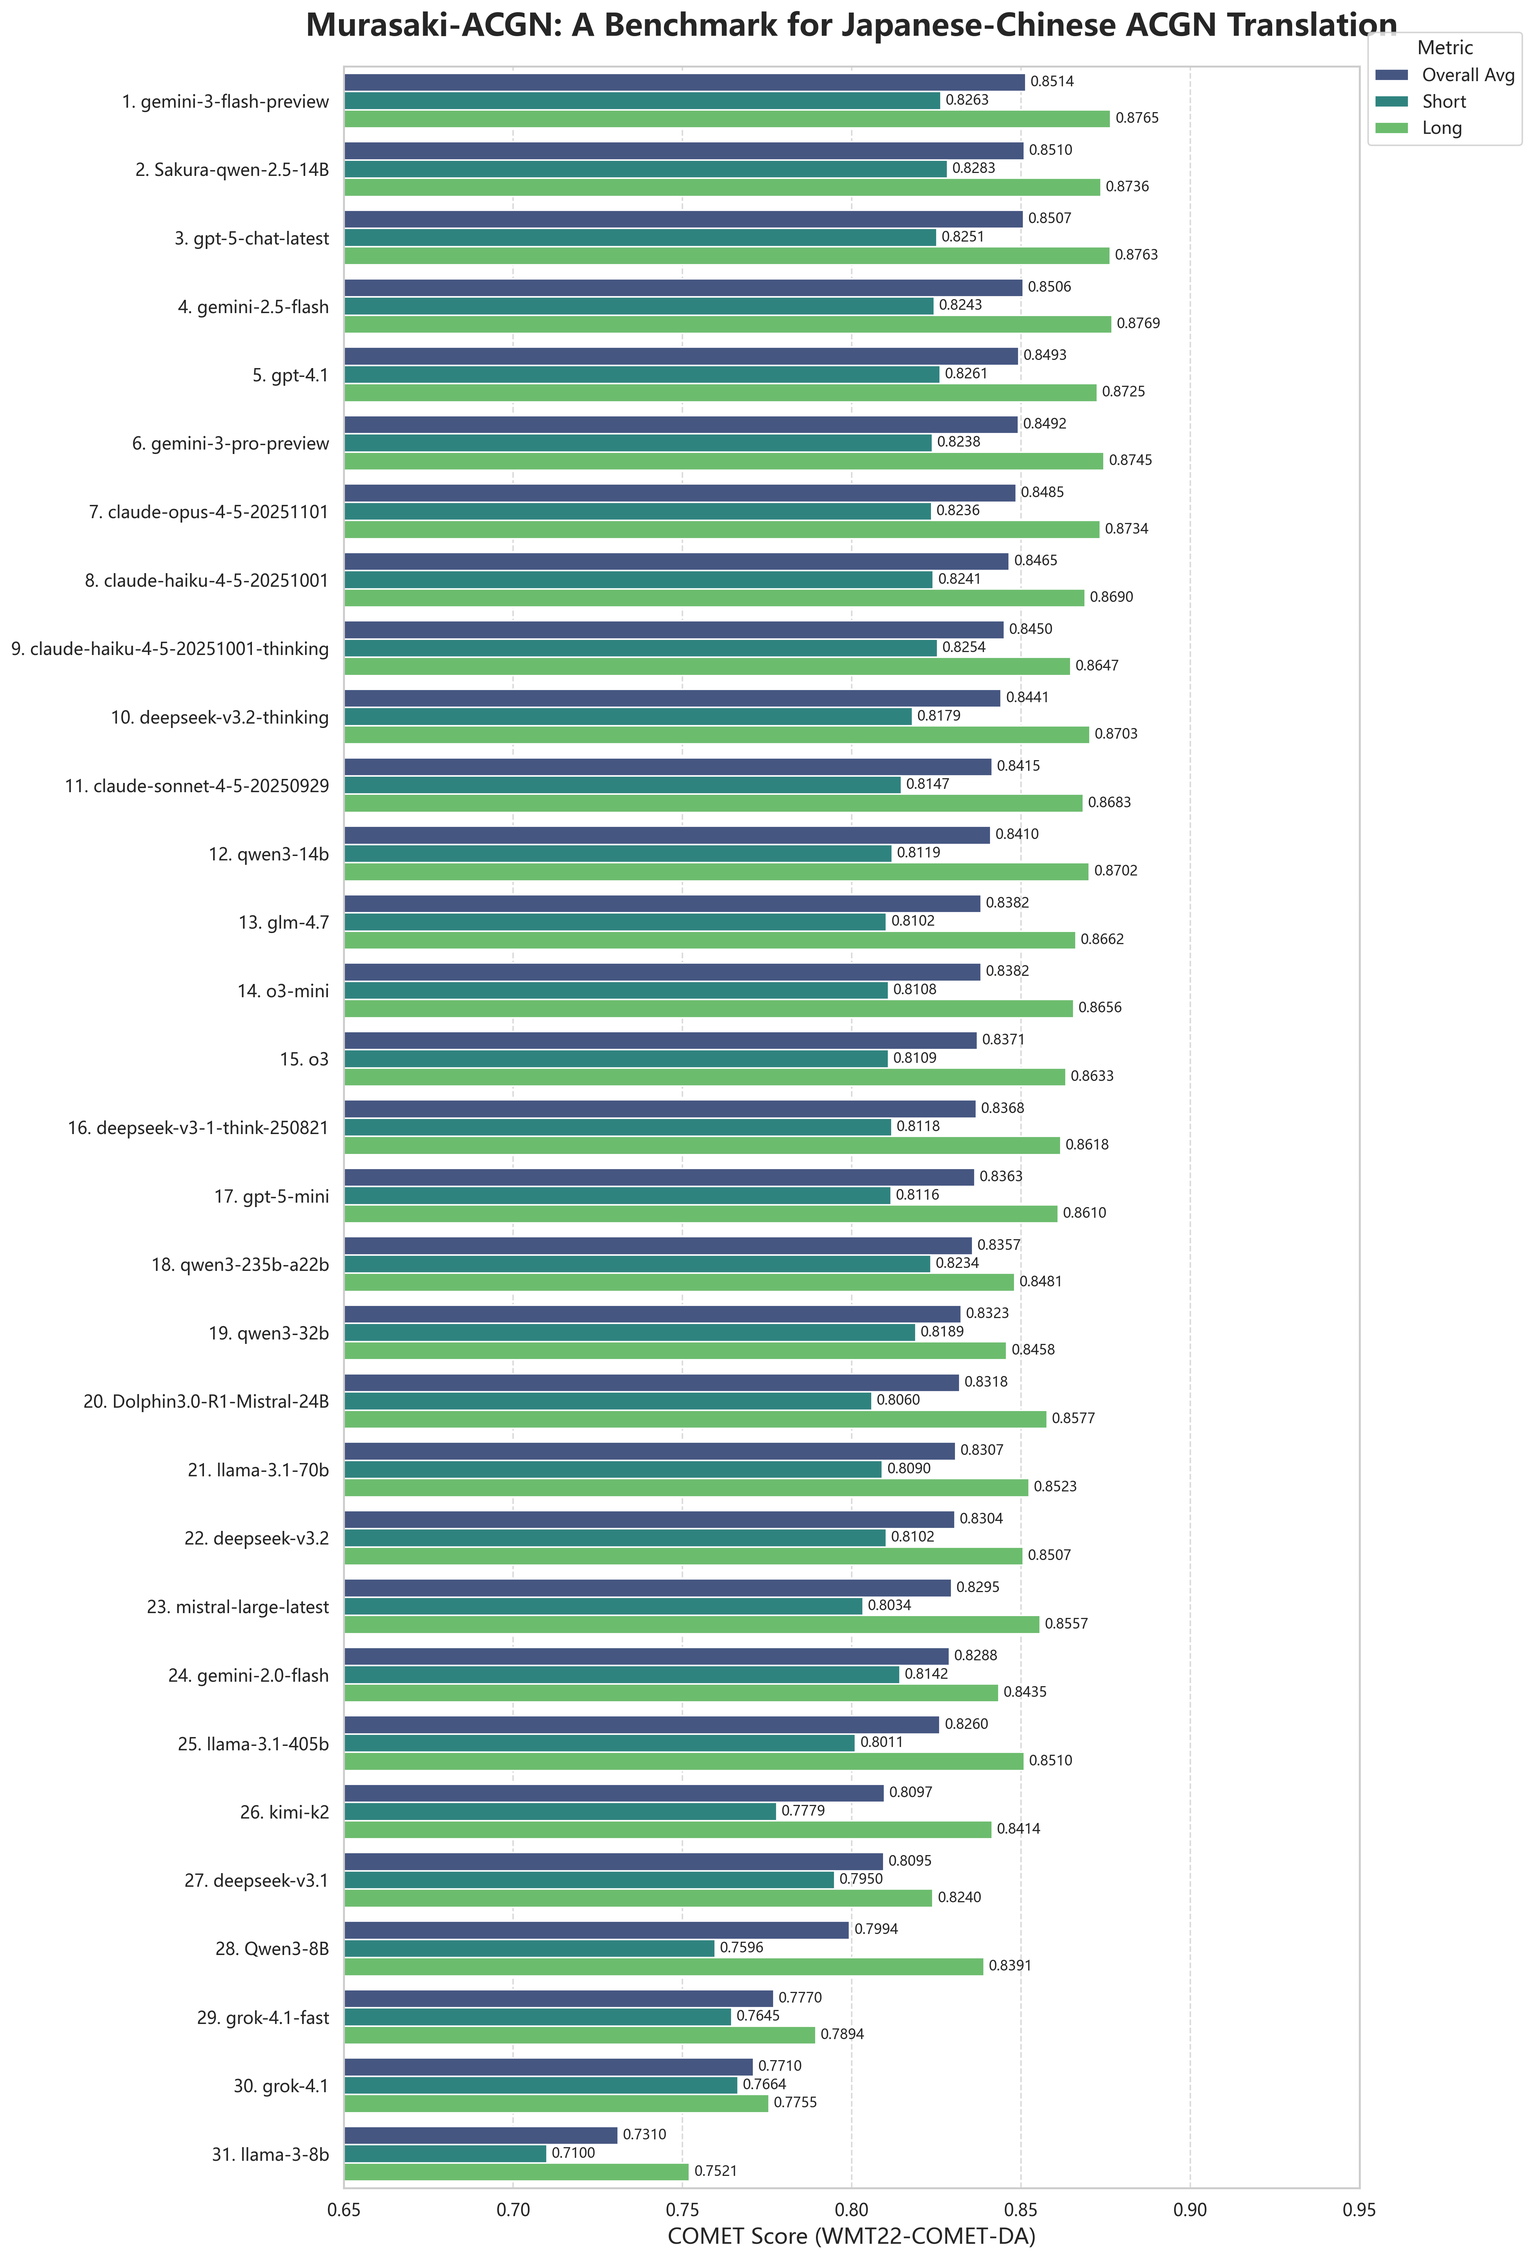
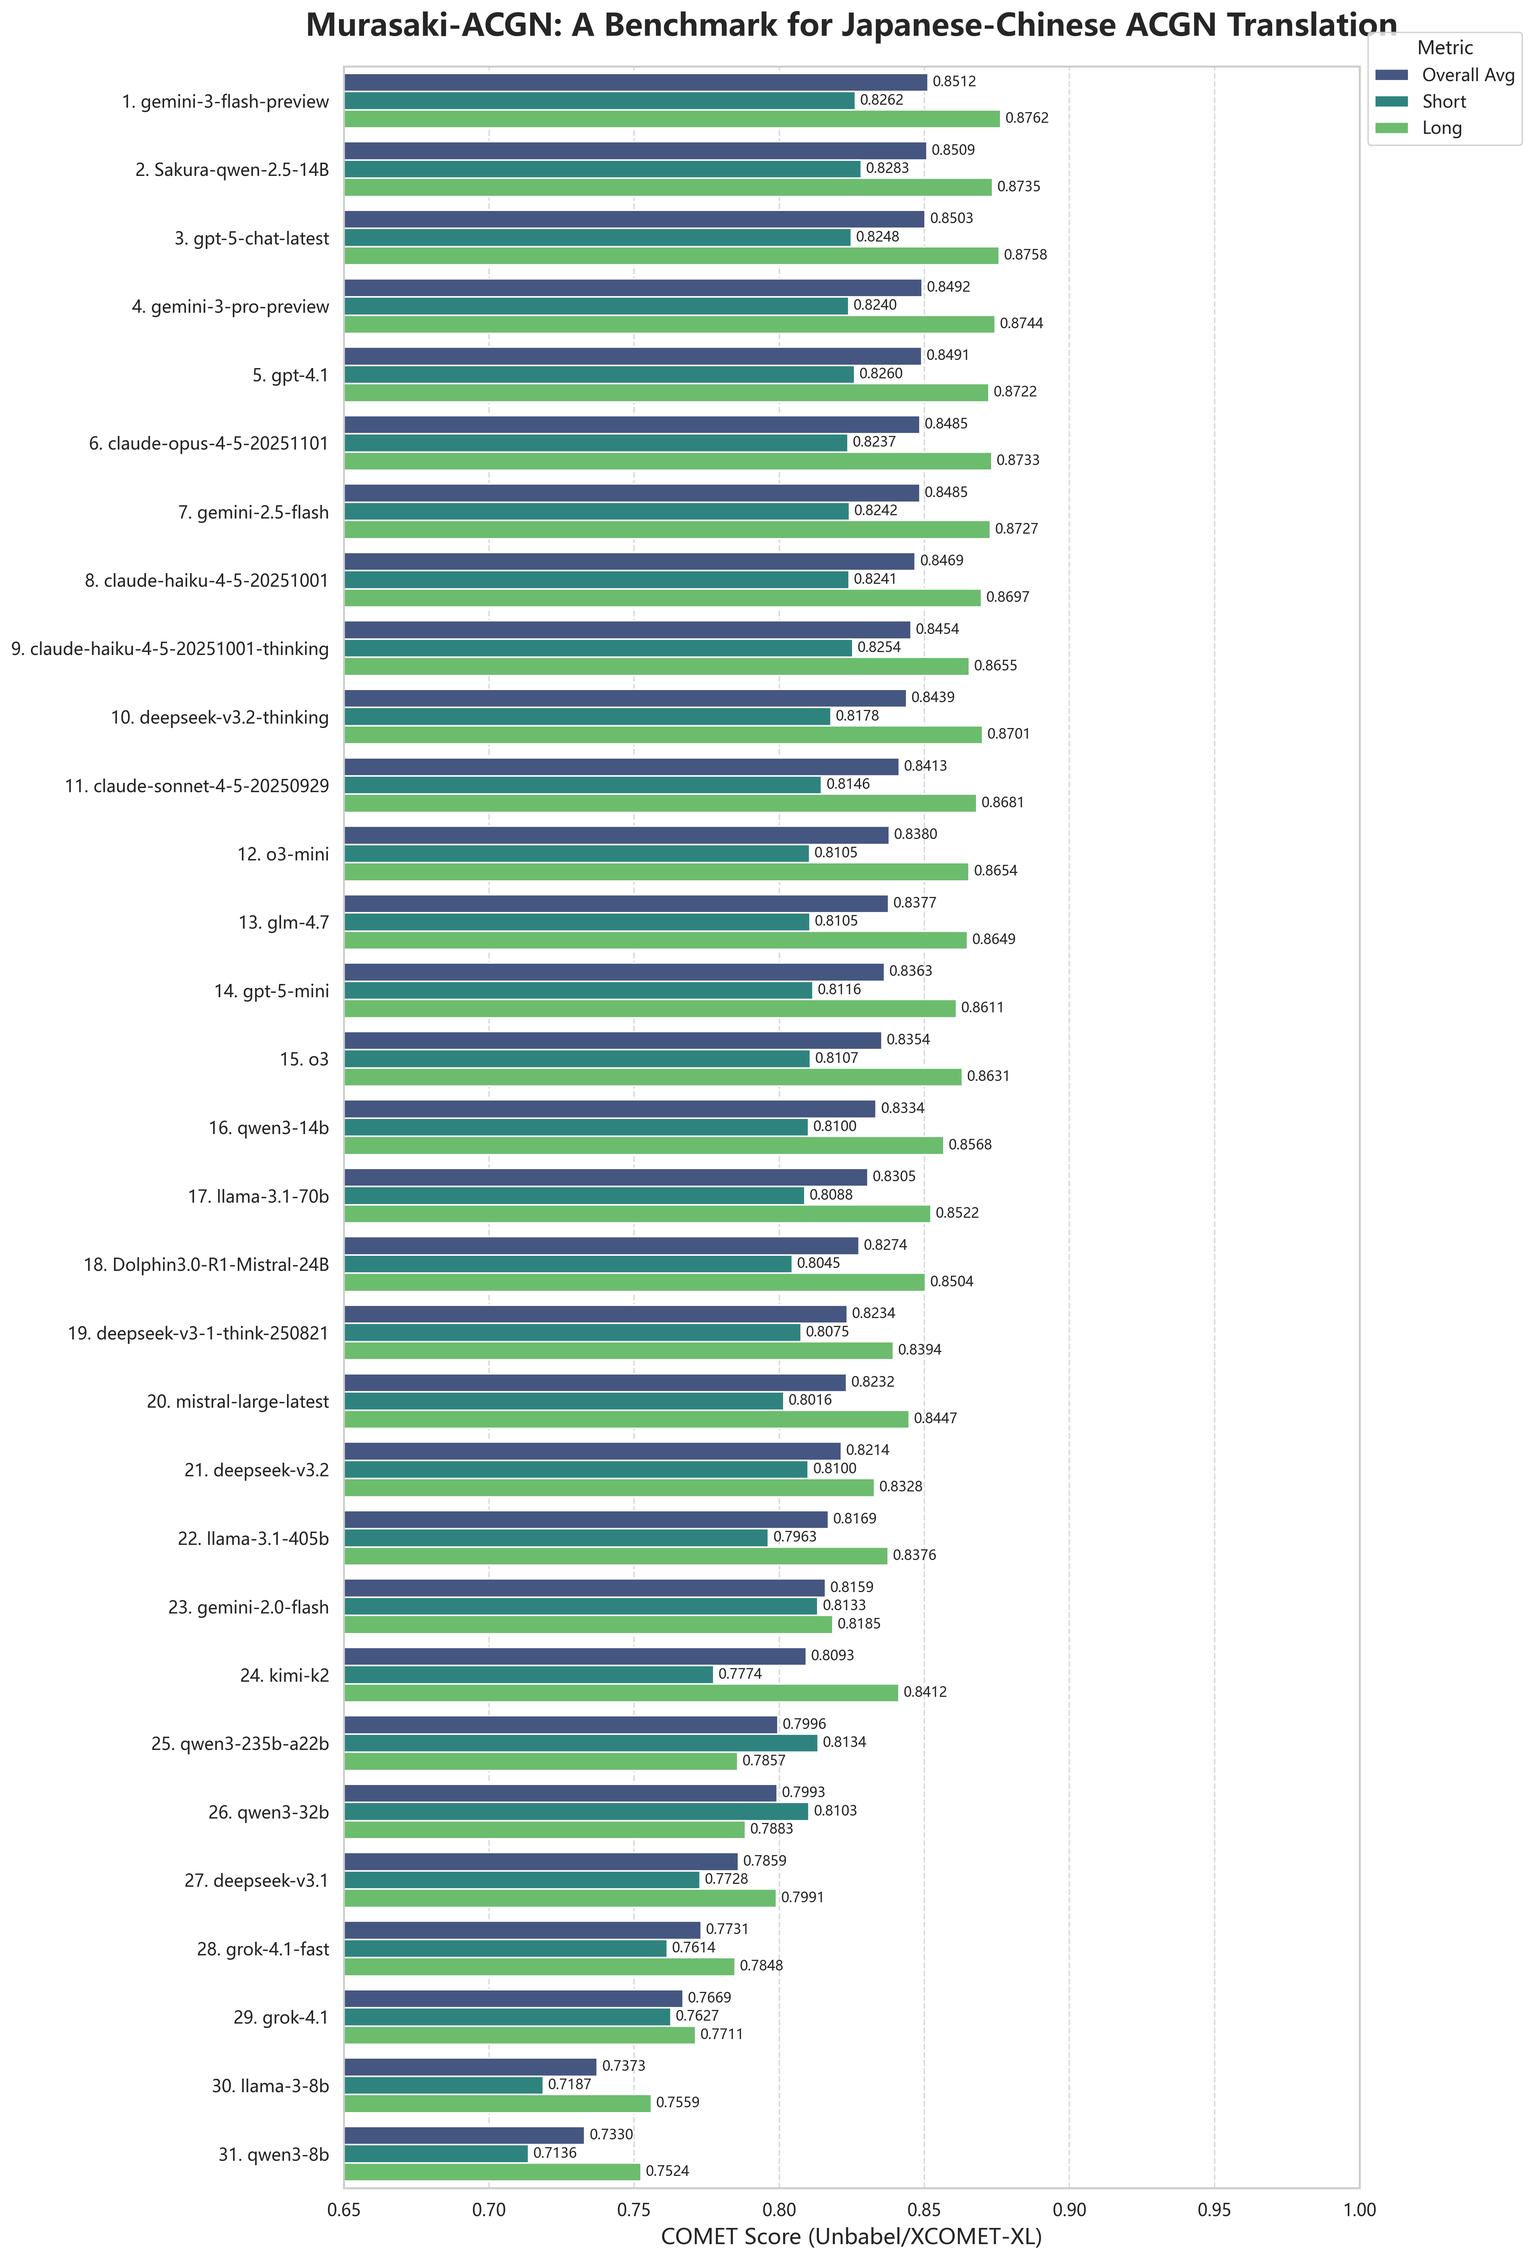
更换XCOMET-XL作为metrics

Changed region(s): [[0.3414, 0.0312, 0.7449, 0.9974], [0.1552, 0.5922, 0.2173, 0.6234], [0.1552, 0.4987, 0.1862, 0.561]]

diff --git a/pipeline/main.py b/pipeline/main.py
@@ -3,7 +3,7 @@ import os
 import pandas as pd
 import json
 
-# 使用相对导入（从pipeline目录运行）或绝对导入
+# Handle imports whether run as module or script
 try:
     from pipeline.config import MODELS_TO_EVAL, DATASET_SHORT, DATASET_LONG, SYSTEM_PROMPT, GLOBAL_API_KEY, GLOBAL_BASE_URL, GLOBAL_CONCURRENCY
     from pipeline.generator import LLMGenerator
@@ -16,8 +16,17 @@ except ImportError:
 
 def load_jsonl(path):
     """Load a JSONL file and return list of dicts."""
+    data = []
+    if not os.path.exists(path):
+        return data
     with open(path, 'r', encoding='utf-8') as f:
-        return [json.loads(line) for line in f if line.strip()]
+        for line in f:
+            if line.strip():
+                try:
+                    data.append(json.loads(line))
+                except json.JSONDecodeError:
+                    continue
+    return data
 
 
 async def main():
@@ -26,15 +35,21 @@ async def main():
     try:
         data_short = load_jsonl(DATASET_SHORT)
         data_long = load_jsonl(DATASET_LONG)
-        data = data_short + data_long
-        dataset = pd.DataFrame(data)
+        
+        # Ensure categories are set correctly
+        for item in data_short:
+            item['category'] = 'Short'
+        for item in data_long:
+            item['category'] = 'Long'
+            
+        df_short_source = pd.DataFrame(data_short)
+        df_long_source = pd.DataFrame(data_long)
+        
     except Exception as e:
-        print(f"Error loading dataset: {e}")
+        print(f"Error loading source datasets: {e}")
         return
 
-    print(f"Loaded {len(dataset)} examples (Short: {len(data_short)}, Long: {len(data_long)}).")
-    if 'category' in dataset.columns:
-        print(f"Categories found: {dataset['category'].unique()}")
+    print(f"Loaded source data: Short={len(df_short_source)}, Long={len(df_long_source)}")
     
     # Prepare results directory
     results_dir = "results/models"
@@ -60,47 +75,70 @@ async def main():
         model_results_dir = os.path.join(results_dir, safe_model_name)
         os.makedirs(model_results_dir, exist_ok=True)
         
-        result_file_path = os.path.join(model_results_dir, f"{safe_model_name}_run1.csv")
+        # Define result file paths
+        short_result_path = os.path.join(model_results_dir, "dataset_Short_run1.jsonl")
+        long_result_path = os.path.join(model_results_dir, "dataset_Long_run1.jsonl")
         
-        # Check for existing results
-        if os.path.exists(result_file_path):
-            print(f"Found existing results at {result_file_path}. Skipping generation.")
-            df_result = pd.read_csv(result_file_path)
+        generator = LLMGenerator(model_config)
+
+        # --- Process Short Dataset ---
+        print(f"  [Short] Processing...")
+        # Check if generation is needed/complete for Short
+        # The generator's generate_batch handles incremental saving and skipping existing
+        if len(df_short_source) > 0:
+            df_short_result = await generator.generate_batch(
+                df_short_source, 
+                SYSTEM_PROMPT, 
+                save_path=short_result_path
+            )
         else:
-            print(f"No existing results found. Generating...")
-            generator = LLMGenerator(model_config)
-            df_result = await generator.generate_batch(dataset, SYSTEM_PROMPT)
-            df_result.to_csv(result_file_path, index=False, encoding='utf-8-sig')
-            print(f"Generation complete. Saved to {result_file_path}")
+            df_short_result = pd.DataFrame()
+
+        # --- Process Long Dataset ---
+        print(f"  [Long] Processing...")
+        if len(df_long_source) > 0:
+            df_long_result = await generator.generate_batch(
+                df_long_source, 
+                SYSTEM_PROMPT, 
+                save_path=long_result_path
+            )
+        else:
+            df_long_result = pd.DataFrame()
+
+        # --- Combine for Evaluation ---
+        df_result = pd.concat([df_short_result, df_long_result], ignore_index=True)
+        
+        if len(df_result) == 0:
+            print("  No results to evaluate.")
+            continue
 
         # 3. Evaluate
-        print(f"Evaluating {model_name}...")
+        print(f"  Evaluating {len(df_result)} samples...")
         
-        if 'comet_score' not in df_result.columns:
-            eval_result = evaluate_metrics(df_result)
-            eval_result['results_df'].to_csv(result_file_path, index=False, encoding='utf-8-sig')
-        else:
-            eval_result = evaluate_metrics(df_result)
+        # Note: evaluate_metrics calculates scores but we don't save them back to row-level files
+        # based on user requirement (scores in summary only).
+        eval_result = evaluate_metrics(df_result)
 
         # Collect Scores
         run_scores = {
             "model_name": model_name,
-            "comet": eval_result['comet']
+            "comet": eval_result.get('comet', 0.0)
         }
         
         # Add Category Scores
         if 'category_scores' in eval_result and eval_result['category_scores']:
             for cat, metrics in eval_result['category_scores'].items():
-                run_scores[f"{cat}_comet"] = metrics['comet']
+                run_scores[f"{cat}_comet"] = metrics.get('comet', 0.0)
 
         leaderboard.append(run_scores)
-        print(f"Scores: COMET={run_scores['comet']:.4f}")
+        print(f"  Scores: COMET={run_scores['comet']:.4f}")
 
     # 4. Save Final Leaderboard
     leaderboard_df = pd.DataFrame(leaderboard)
-    leaderboard_df = leaderboard_df.sort_values(by='comet', ascending=False)
+    if not leaderboard_df.empty and 'comet' in leaderboard_df.columns:
+        leaderboard_df = leaderboard_df.sort_values(by='comet', ascending=False)
     
-    leaderboard_path = "results/leaderboard.csv"
+    leaderboard_path = "results/final_comet_scores.csv"
     leaderboard_df.to_csv(leaderboard_path, index=False, encoding='utf-8-sig')
     
     print("\n=== Final Leaderboard ===")

diff --git a/scripts/generate_chart.py b/scripts/generate_chart.py
@@ -1,0 +1,126 @@
+import pandas as pd
+import matplotlib.pyplot as plt
+import matplotlib.font_manager as fm
+import os
+import seaborn as sns
+
+# Configuration
+OUTPUT_IMAGE = "results/murasaki_benchmark_chart.png"
+TITLE = "Murasaki-ACGN: A Benchmark for Japanese-Chinese ACGN Translation"
+
+# Auto-detect input file
+INPUT_FILE = "results/final_comet_scores.csv"
+if os.path.exists("results/leaderboard_xcomet.csv"):
+    INPUT_FILE = "results/leaderboard_xcomet.csv"
+    print(f"Detected XCOMET evaluation results: {INPUT_FILE}")
+
+def setup_chinese_font():
+    """Attempt to set a Chinese font for Matplotlib on Windows."""
+    # Common Windows Chinese fonts
+    font_names = ["Microsoft YaHei", "SimHei", "Malgun Gothic", "SimSun"]
+    
+    # Try to find a valid font path
+    found_font = None
+    for name in font_names:
+        try:
+            # Check if font is available in system paths
+            font_path = fm.findfont(fm.FontProperties(family=name))
+            available = [f.name for f in fm.fontManager.ttflist]
+            if name in available:
+                found_font = name
+                break
+        except:
+            continue
+            
+    if found_font:
+        plt.rcParams['font.family'] = [found_font, 'sans-serif']
+        print(f"Using font: {found_font}")
+    else:
+        print("Warning: Common Chinese fonts not found in Matplotlib cache. Trying 'Microsoft YaHei' directly.")
+        plt.rcParams['font.family'] = ['Microsoft YaHei', 'SimHei', 'sans-serif']
+        plt.rcParams['axes.unicode_minus'] = False
+
+def main():
+    if not os.path.exists(INPUT_FILE):
+        print(f"Error: {INPUT_FILE} not found. Please run evaluation first.")
+        return
+
+    # 1. Load Data
+    try:
+        df = pd.read_csv(INPUT_FILE)
+    except Exception as e:
+        print(f"Error reading {INPUT_FILE}: {e}")
+        return
+    
+    # 2. Sort by Avg Score Descending
+    if "comet" in df.columns:
+        df = df.sort_values(by="comet", ascending=False).reset_index(drop=True)
+    
+    # Add Rank to Model Name for display
+    df["display_name"] = (df.index + 1).astype(str) + ". " + df["model_name"]
+
+    # 3. Setup Plot
+    setup_chinese_font()
+    sns.set_theme(style="whitegrid")
+    setup_chinese_font() # Re-apply after theme set
+
+    # Melt for plotting
+    # Columns expected: comet (avg), Short_comet, Long_comet
+    value_vars = ["comet"]
+    if "Short_comet" in df.columns: value_vars.append("Short_comet")
+    if "Long_comet" in df.columns: value_vars.append("Long_comet")
+    
+    df_melt = df.melt(id_vars=["display_name", "model_name"], 
+                      value_vars=value_vars, 
+                      var_name="Metric", 
+                      value_name="Score")
+    
+    metric_map = {
+        "comet": "Overall Avg",
+        "Short_comet": "Short",
+        "Long_comet": "Long"
+    }
+    df_melt["Metric"] = df_melt["Metric"].map(metric_map)
+
+    # Dynamic Height
+    height = len(df) * 0.6 + 2
+    plt.figure(figsize=(14, height))
+
+    # 4. Create Horizontal Bar Plot
+    chart = sns.barplot(
+        data=df_melt,
+        x="Score",
+        y="display_name",
+        hue="Metric",
+        hue_order=["Overall Avg", "Short", "Long"],
+        palette="viridis",
+        edgecolor="w" 
+    )
+    
+    # ADD VALUE LABELS
+    for container in chart.containers:
+        chart.bar_label(container, fmt='%.4f', padding=3, fontsize=9)
+
+    # 5. Styling
+    plt.title(TITLE, fontsize=20, fontweight='bold', pad=20)
+    plt.xlabel("COMET Score (Unbabel/XCOMET-XL)", fontsize=14)
+    plt.ylabel("", fontsize=12) 
+    plt.legend(title="Metric", bbox_to_anchor=(1.0, 1.02), loc='upper left', fontsize=11)
+    
+    # Adjust X Limits
+    # Find min score to set sensible x lim
+    min_score = df_melt["Score"].min()
+    if pd.isna(min_score): min_score = 0
+    xlim_min = int(min_score * 20) / 20 - 0.05
+    plt.xlim(max(0, xlim_min), 1.0) # Cap at 1.0 MAX
+    
+    plt.grid(axis='x', linestyle='--', alpha=0.7)
+    plt.tight_layout()
+
+    # 6. Save
+    os.makedirs(os.path.dirname(OUTPUT_IMAGE), exist_ok=True)
+    plt.savefig(OUTPUT_IMAGE, dpi=300, bbox_inches='tight')
+    print(f"Chart saved to {OUTPUT_IMAGE}")
+
+if __name__ == "__main__":
+    main()

diff --git a/pipeline/evaluator.py b/pipeline/evaluator.py
@@ -1,4 +1,6 @@
+import os
 from comet import download_model, load_from_checkpoint
+from huggingface_hub import hf_hub_download
 import torch
 import pandas as pd
 
@@ -14,14 +16,34 @@ def load_comet():
 
     print("Loading COMET model...")
     try:
-        COMET_MODEL_PATH = download_model("Unbabel/wmt22-comet-da")
+        # Try Loading XCOMET-XL
+        print("Attempting to load Unbabel/XCOMET-XL...")
+        try:
+             # First try direct download (if supported in future versions)
+            COMET_MODEL_PATH = download_model("Unbabel/XCOMET-XL")
+        except Exception:
+            # Fallback: Download from HuggingFace Hub manually
+            print("Direct download not supported, fetching from HuggingFace Hub...")
+            COMET_MODEL_PATH = hf_hub_download(repo_id="Unbabel/XCOMET-XL", filename="checkpoints/model.ckpt")
+        
         comet_model = load_from_checkpoint(COMET_MODEL_PATH)
-        if torch.cuda.is_available():
-            comet_model = comet_model.to("cuda")
-        print("COMET model loaded successfully.")
+        print(f"Loaded XCOMET-XL from {COMET_MODEL_PATH}")
+
     except Exception as e:
-        print(f"Failed to load COMET model: {e}")
-        comet_model = None
+        print(f"Failed to load XCOMET-XL: {e}")
+        print("Falling back to Unbabel/wmt22-comet-da...")
+        try:
+            COMET_MODEL_PATH = download_model("Unbabel/wmt22-comet-da")
+            comet_model = load_from_checkpoint(COMET_MODEL_PATH)
+            print("Loaded wmt22-comet-da successfully.")
+        except Exception as e2:
+             print(f"Failed to load fallback model: {e2}")
+             comet_model = None
+             return
+
+    if torch.cuda.is_available():
+        comet_model = comet_model.to("cuda")
+    print("COMET model loaded successfully.")
 
 
 def evaluate_metrics(df):

diff --git a/pipeline/__init__.py b/pipeline/__init__.py
@@ -4,12 +4,10 @@
 from .config import MODELS_TO_EVAL, SYSTEM_PROMPT
 from .generator import LLMGenerator
 from .evaluator import evaluate_metrics
-from .sampler import get_file_candidates
 
 __all__ = [
     'MODELS_TO_EVAL',
     'SYSTEM_PROMPT', 
     'LLMGenerator',
-    'evaluate_metrics',
-    'get_file_candidates'
+    'evaluate_metrics'
 ]

diff --git a/README.md b/README.md
@@ -131,7 +131,7 @@ Covers major genres from commercial light novels and *Syosetu* web novels:
 | Temperature | 1.0 |
 | System Prompt | Standardized ([pipeline/config.py](pipeline/config.py)) |
 | Special Cases | Sakura models use official recommended settings |
-| Metric | COMET (Unbabel/wmt22-comet-da) |
+| Metric | COMET (Unbabel/XCOMET-XL) |
 
 ---
 

diff --git a/README_zh.md b/README_zh.md
@@ -131,7 +131,7 @@ graph LR
 | Temperature | 1.0 |
 | System Prompt | 标准化 ([pipeline/config.py](pipeline/config.py)) |
 | 特殊情况 | Sakura 模型使用官方推荐设置 |
-| 指标 | COMET (Unbabel/wmt22-comet-da) |
+| 指标 | COMET (Unbabel/XCOMET-XL) |
 
 ---
 

diff --git a/results/README.md b/results/README.md
@@ -43,5 +43,5 @@ results/
 
 ## 评测说明
 
-- 使用 Unbabel/wmt22-comet-da 模型计算COMET分数
+- 使用 Unbabel/XCOMET-XL 模型计算COMET分数
 - COMET分数范围通常在0-1之间，越高表示翻译质量越好
